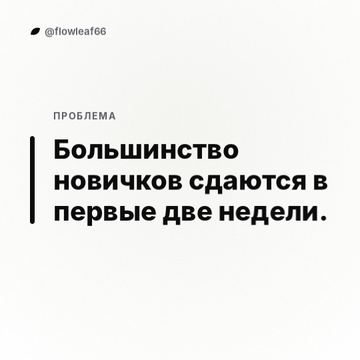
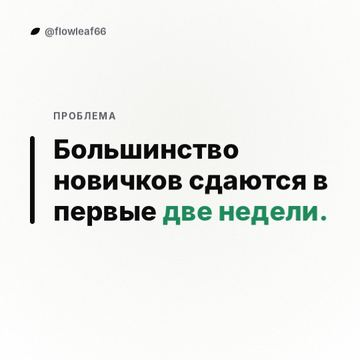
render-server: ink-style emphasis colour, dashes never start a line, shrink before hyphenating, chart source placement

Changed region(s): [[0.4278, 0.55, 0.9167, 0.6417]]

diff --git a/web/src/features/studio/Preview.tsx b/web/src/features/studio/Preview.tsx
@@ -100,6 +100,7 @@ function Handle({ c }: { c: Ctx }) {
 
 function sceneBody(c: Ctx, sc: Scene): ReactNode {
   const f = sc.fields; const { P, t, v } = c;
+  const hi = P.accent.toLowerCase() === P.fg.toLowerCase() ? P.accent2 : P.accent;
   const colW = c.W - (v ? 180 : c.wide ? 520 : 200);
   const emph = (s: unknown) => new Set(str(s).split(/[,\s]+/).map(keyOf).filter(Boolean));
   switch (sc.kind) {
@@ -109,7 +110,7 @@ function sceneBody(c: Ctx, sc: Scene): ReactNode {
       return (
         <Center c={c} gap={40}>
           {str(f.kicker) && <Appear t={t} at={0}><Pill bg={P.accent} fg={P.on_accent}>{str(f.kicker).toUpperCase()}</Pill></Appear>}
-          <Words text={title} t={t} start={.2} size={size} color={P.fg} hl={emph(f.emphasis)} hcolor={P.accent} />
+          <Words text={title} t={t} start={.2} size={size} color={P.fg} hl={emph(f.emphasis)} hcolor={hi} />
           {sc.kind === "hook" && <div style={{ height: 14, borderRadius: 7, background: P.accent, width: `${30 * ease(t, .8, 1.4)}%` }} />}
           {str(f.subtitle) && <Appear t={t} at={.9}><div style={{ fontSize: v ? 46 : 40, color: P.muted, fontWeight: 500 }}>{str(f.subtitle)}</div></Appear>}
         </Center>
@@ -123,7 +124,7 @@ function sceneBody(c: Ctx, sc: Scene): ReactNode {
           {str(f.label) && <Appear t={t} at={.05}><div style={{ fontSize: 28, fontWeight: 700, letterSpacing: ".12em", color: P.muted }}>{str(f.label).toUpperCase()}</div></Appear>}
           <div style={{ borderLeft: `14px solid ${P.accent}`, paddingLeft: 56 }}>
             <Appear t={t} at={.2}><div style={{ fontSize: size, fontWeight: 800, lineHeight: 1.16, color: P.fg }}>
-              {text.split(" ").map((w, k) => <span key={k} style={{ color: hl.has(keyOf(w)) ? P.accent : undefined }}>{w} </span>)}
+              {text.split(" ").map((w, k) => <span key={k} style={{ color: hl.has(keyOf(w)) ? hi : undefined }}>{w} </span>)}
             </div></Appear>
           </div>
         </Center>

diff --git a/render-server/flowleaf_render/core.py b/render-server/flowleaf_render/core.py
@@ -14,6 +14,7 @@ from __future__ import annotations
 
 import functools
 import math
+import re
 import os
 import random
 import subprocess
@@ -98,6 +99,11 @@ class Palette:
     vignette: float = 0.0
     code_bg: str = ""        # code panels (falls back to surface)
     syntax: tuple = ()       # (keyword, string, number, comment, function) colours for code
+
+    @property
+    def highlight(self):
+        """Colour for emphasised words: the accent, unless the accent is the text colour (ink style)."""
+        return self.accent2 if self.accent.lower() == self.fg.lower() else self.accent
 
     def to_json(self):
         return {k: v for k, v in self.__dict__.items()}
@@ -400,8 +406,9 @@ def text(ctx, s, x, y, size, weight="Bold", color="#FFFFFF", alpha=1.0, anchor="
 def wrap(s, size, weight, max_w, family="sans", tracking=0.0):
     """Greedy word wrap. Respects explicit newlines. Words longer than max_w are hard-split."""
     out = []
-    for para in str(s).split("\n"):
-        words, cur = para.split(), ""
+    s = re.sub(r" ([—–-]) ", "\u00a0\\1 ", str(s))       # never start a line with a dash
+    for para in s.split("\n"):
+        words, cur = [w for w in re.split(r"[ \t]+", para) if w], ""
         for wd in words:
             while text_width(wd, size, weight, tracking, family) > max_w and len(wd) > 1:
                 k = len(wd)
@@ -418,6 +425,10 @@ def wrap(s, size, weight, max_w, family="sans", tracking=0.0):
 def fit(s, max_w, max_h, size, weight="Bold", min_size=18, lh=1.15, family="sans", max_lines=None, tracking=0.0):
     """Largest font size <= size where `s` wraps into the box. Returns (size, lines)."""
     size = int(size)
+    words = re.split(r"[ \t\n]+", re.sub(r" ([—–-]) ", "\u00a0\\1 ", str(s)))
+    longest = max(words or [""], key=lambda w: text_width(w, 100, weight, tracking, family))
+    while size > min_size and text_width(longest, size, weight, tracking, family) > max_w:
+        size = max(min_size, int(size * .93))
     while True:
         lines = wrap(s, size, weight, max_w, family, tracking)
         h = size * (CAP[family] + (len(lines) - 1) * lh)
@@ -464,7 +475,7 @@ def kinetic_lines(f: Frame, lines, x, y, size, start, weight="Black", color=None
     """Words pop in one by one (rise + scale overshoot) across pre-wrapped lines. `highlight` = set of
     lower-cased words drawn in hcolor. Returns block height."""
     ctx, t = f.ctx, f.t
-    color = color or f.P.fg; hcolor = hcolor or f.P.accent
+    color = color or f.P.fg; hcolor = hcolor or f.P.highlight
     rise = rise if rise is not None else size * .45
     n = len(lines)
     block = size * (CAP[family] + (n - 1) * lh)

diff --git a/render-server/flowleaf_render/templates/kinetic_quote.py b/render-server/flowleaf_render/templates/kinetic_quote.py
@@ -50,7 +50,7 @@ def draw_statement(f: Frame, sc, bc: BuildCtx):
     bu = ease(t, 0, .5, out_cubic)
     fill_rrect(ctx, x0, top - 10 * s, 14 * s, (block + 20 * s) * bu, 7 * s, P.accent)
     paragraph(ctx, lines, x0 + 70 * s, top, size, "ExtraBold", P.fg, align="l", lh=1.16, reveal=.2, t=t,
-              stagger=.12, dur=.55, rise=40 * s, highlight=_emph(fl.get("emphasis")), hcolor=P.accent)
+              stagger=.12, dur=.55, rise=40 * s, highlight=_emph(fl.get("emphasis")), hcolor=P.highlight)
     if fl.get("label"):
         text(ctx, fl["label"].upper(), x0 + 70 * s, top - 70 * s, 28 * s, "Bold", P.muted, ease(t, .1, .5), "lm",
              tracking=.12, max_w=w)

diff --git a/render-server/flowleaf_render/templates/numbers.py b/render-server/flowleaf_render/templates/numbers.py
@@ -119,7 +119,7 @@ def draw_bars(f: Frame, sc, bc: BuildCtx):
         c = P.accent if j == imax else mixc(P.accent, P.surface if not P.dark else P.bg, .45)
         fill_rrect(ctx, bx0, by, max(bar_h, W * abs(v) / vmax * u), bar_h, bar_h / 2, c, a)
     if fl.get("source"):
-        text(ctx, fl["source"], bx0, y1 + 10 * s, 26 * s, "Medium", P.muted, ease(t, 1.2, 1.6), "lm", max_w=W)
+        text(ctx, fl["source"], bx0, top + n * row + 10 * s, 26 * s, "Medium", P.muted, ease(t, 1.2, 1.6), "lm", max_w=W)
     handle_tag(f, bc.g.get("handle"), 1)
 
 
